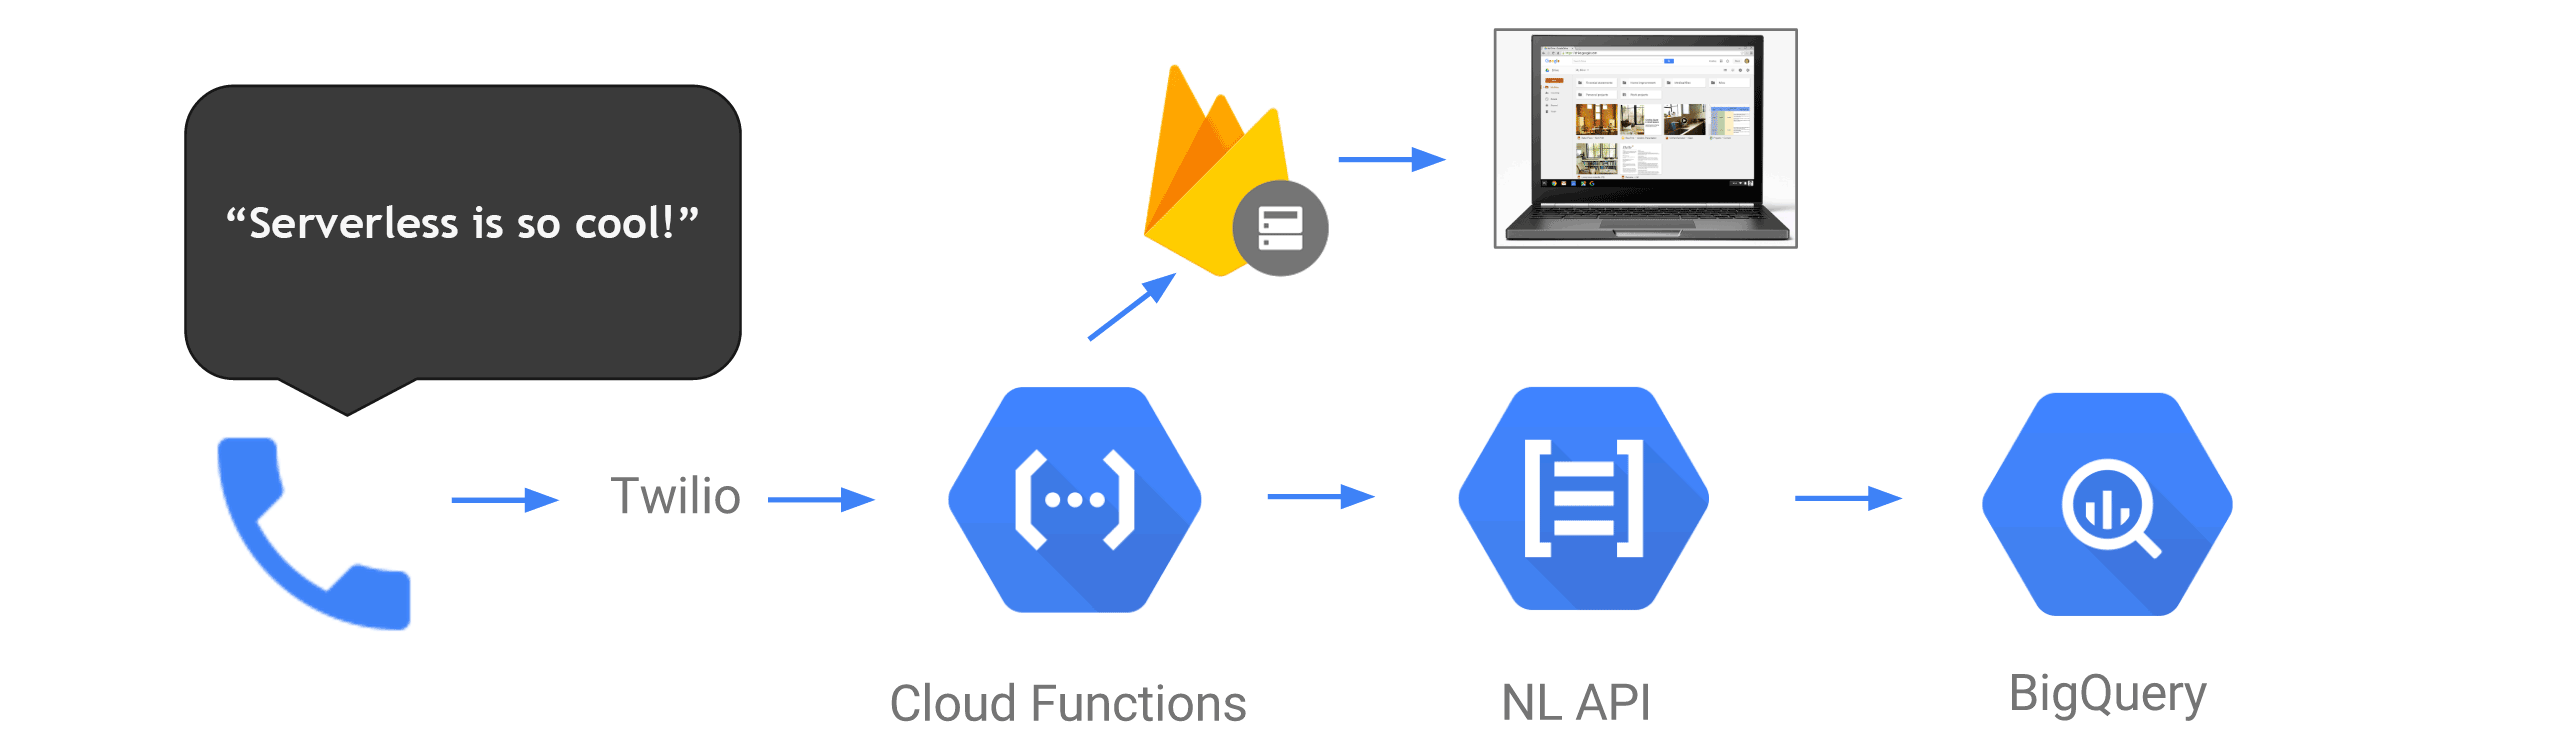
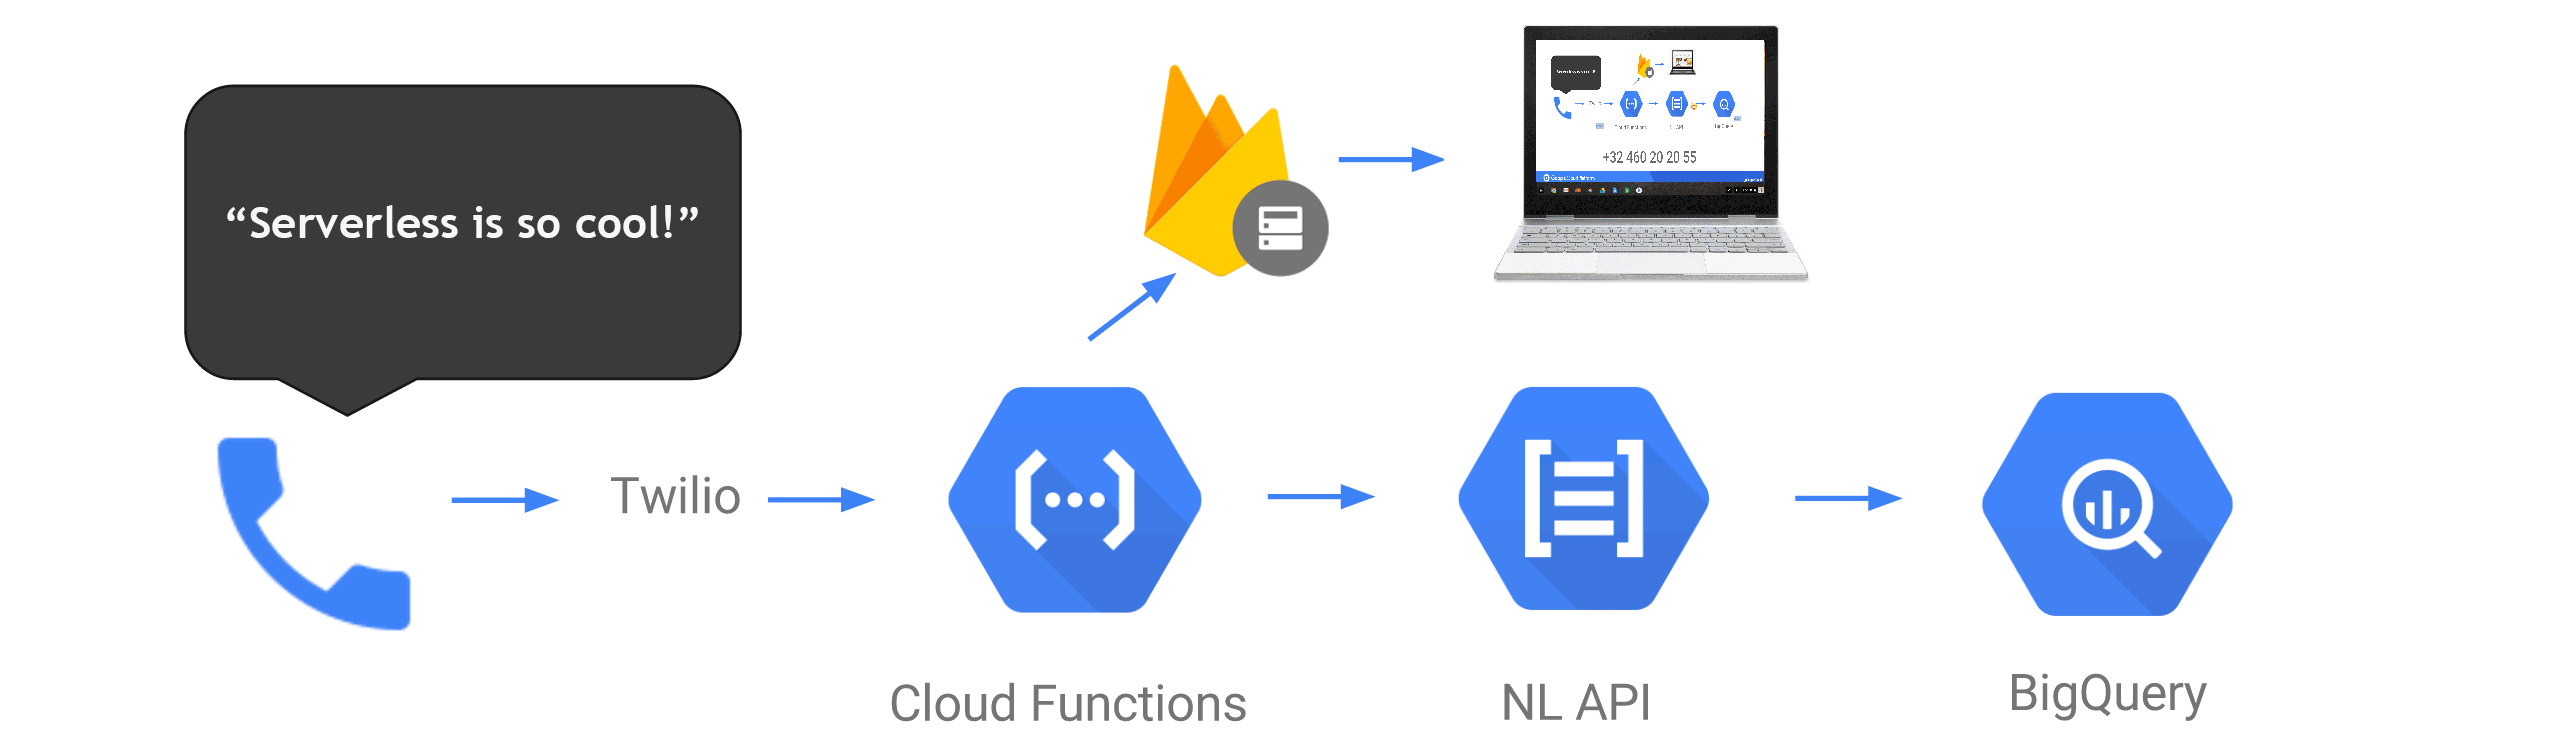
UI updates

Changed region(s): [[0.5625, 0.0307, 0.7188, 0.3992]]

diff --git a/public/index.html b/public/index.html
@@ -4,7 +4,8 @@
     <meta charset="utf-8">
     <meta name="viewport" content="width=device-width, initial-scale=1">
     <title>Serverless Emojinizer demo</title>
-  <link rel="shortcut icon" href="https://cloud.google.com/_static/4817e41f83/images/cloud/icons/favicons/onecloud/favicon.ico">
+    <link rel="stylesheet" href="css/main.css">
+    <link rel="shortcut icon" href="https://cloud.google.com/_static/4817e41f83/images/cloud/icons/favicons/onecloud/favicon.ico">
 
     <!-- update the version number as needed -->
     <script defer src="/__/firebase/4.13.0/firebase-app.js"></script>
@@ -15,28 +16,17 @@
     <script defer src="/__/firebase/4.13.0/firebase-storage.js"></script>
     <!-- initialize the SDK after all desired features are loaded -->
     <script defer src="/__/firebase/init.js"></script>
-
-    <style media="screen">
-      body { background: #ECEFF1; color: rgba(0,0,0,0.87); font-family: Roboto, Helvetica, Arial, sans-serif; margin: 0; padding: 0; }
-      #message { background: white; max-width: 360px; margin: 100px auto 16px; padding: 32px 24px; border-radius: 3px; }
-      #message h2 { color: #ffa100; font-weight: bold; font-size: 16px; margin: 0 0 8px; }
-      #message h1 { font-size: 22px; font-weight: 300; color: rgba(0,0,0,0.6); margin: 0 0 16px;}
-      #message p { line-height: 140%; margin: 16px 0 24px; font-size: 14px; }
-      #message a { display: block; text-align: center; background: #039be5; text-transform: uppercase; text-decoration: none; color: white; padding: 16px; border-radius: 4px; }
-      #message, #message a { box-shadow: 0 1px 3px rgba(0,0,0,0.12), 0 1px 2px rgba(0,0,0,0.24); }
-      #load { color: rgba(0,0,0,0.4); text-align: center; font-size: 13px; }
-      @media (max-width: 600px) {
-        body, #message { margin-top: 0; background: white; box-shadow: none; }
-        body { border-top: 16px solid #ffa100; }
-      }
-    </style>
+    <script defer src="visualizer.js"></script>
   </head>
   <body>
-    <div id="message">
-      <h2>Welcome</h2>
-      <h1>Firebase Hosting Setup Complete</h1>
-      <p>You're seeing this because you've successfully setup Firebase Hosting. Now it's time to go build something extraordinary!</p>
-      <a target="_blank" href="https://firebase.google.com/docs/hosting/">Open Hosting Documentation</a>
+    <div id="wrapper">
+      <img id="flowchart" src="img/background.png" />
+      <div id="emojis">
+        <ul id="emojiList"></ul>
+      </div>
+      <div id="phoneNumber"></div>
+      <img id="bannerImg" src="img/footer.png" />
+      <div id="twitterHandle"></div>
     </div>
     <p id="load">Firebase SDK Loading&hellip;</p>
 
@@ -55,7 +45,8 @@
         try {
           let app = firebase.app();
           let features = ['auth', 'database', 'messaging', 'storage'].filter(feature => typeof app[feature] === 'function');
-          document.getElementById('load').innerHTML = `Firebase SDK loaded with ${features.join(', ')}`;
+          // document.getElementById('load').innerHTML = `Firebase SDK loaded with ${features.join(', ')}`;
+          document.getElementById('load').style.display = 'none';
         } catch (e) {
           console.error(e);
           document.getElementById('load').innerHTML = 'Error loading the Firebase SDK, check the console.';

diff --git a/public/visualizer.js b/public/visualizer.js
@@ -1,0 +1,66 @@
+const url = new URL(window.location.href);
+const appSettings = {
+  event: url.searchParams.get("event") || 'demo_events',
+  phoneNumber: url.searchParams.get("phone") || '312-313-4664',
+  twitterHandle: url.searchParams.get("twitter") || '@GoogleCloud'
+}
+
+var wrapper = document.getElementById('wrapper');
+//var footerHeight = document.getElementById('bannerImg').offsetHeight;
+var footerHeight = 105;
+var maxX = wrapper.offsetWidth;
+var maxY = wrapper.offsetHeight - footerHeight;
+console.log('maxX', maxX);
+console.log('maxY', maxY);
+
+document.addEventListener('DOMContentLoaded', function() {
+  var ph = document.querySelector('#phoneNumber');
+  ph.innerText = appSettings.phoneNumber;
+  document.querySelector('#twitterHandle').innerText = appSettings.twitterHandle;
+});
+
+var db = firebase.database();
+db.ref('sms').child(appSettings.event).on('child_added', snapshot => {
+  console.log('child added');
+  let val = snapshot.val();
+  console.log(val);
+  console.log(val.emoji);
+  if (val.emoji) {
+    placeRandom(val.emoji, 'emoji');
+  }
+  if (val.tokens) {
+    // Words is a per-message list of nouns and adjectives, co we can
+    // randomly choose one adj/noun per message.
+    let words = [];
+    for(let i=0; i<val.tokens.length; i++) {
+      let token = val.tokens[i];
+      let tag = token.partOfSpeech.tag;
+      // console.log(token);
+      // console.log(tag);
+      // console.log(token.lemma);
+      if (tag == 'NOUN' || tag == 'ADJ') {
+        words.push(token.lemma);
+      }
+    }
+    if (words.length) {
+      var randomWord = words[Math.floor(Math.random() * words.length)];
+      placeRandom(randomWord, 'word');
+    }
+  }
+});
+
+function placeRandom(text, cssClass) {
+  let x = Math.floor(Math.random() * (maxX - 50));
+  let y = Math.floor(Math.random() * (maxY - 35));
+
+  var displayItem = document.createElement('div');
+  var t = document.createTextNode(text);
+  displayItem.className = 'displayItem';
+  if (cssClass) {
+    displayItem.className += ' ' + cssClass;
+  }
+  displayItem.style.top = y + 'px';
+  displayItem.style.left = x + 'px';
+  displayItem.appendChild(t);
+  wrapper.appendChild(displayItem); 
+}

diff --git a/README.md b/README.md
@@ -1,2 +1,5 @@
 # emojinizer
 Emoji analysis of language, etc using serverless tools on Google Cloud
+
+## References
+- Pixelbook image from https://www.google.com/chromebook/device/google-pixelbook/
